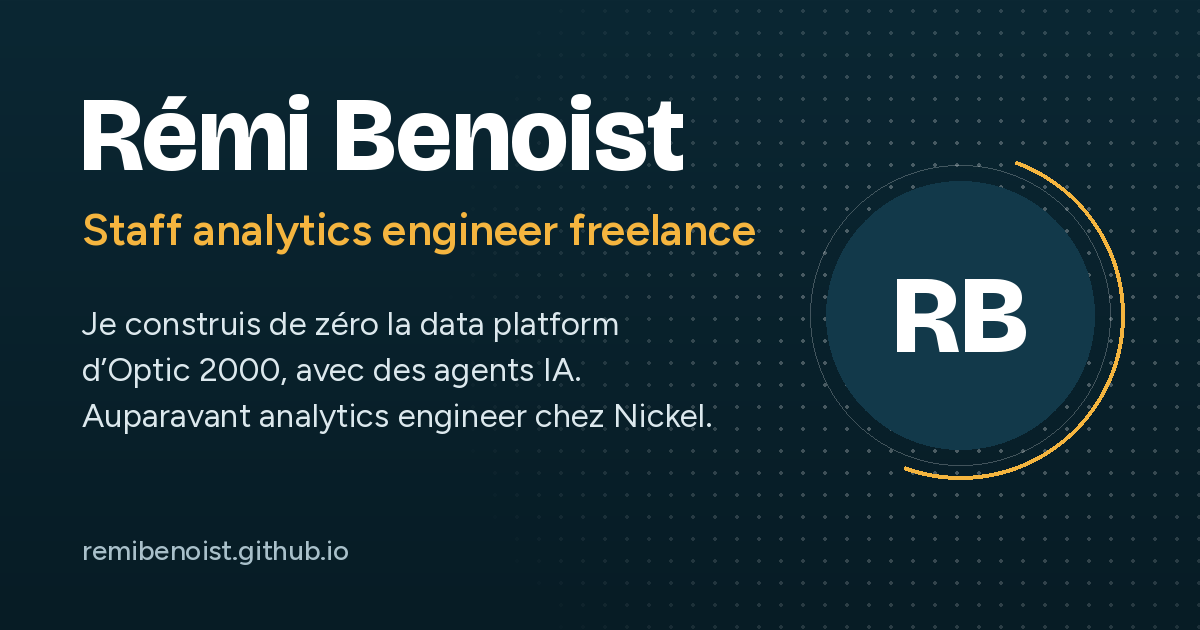
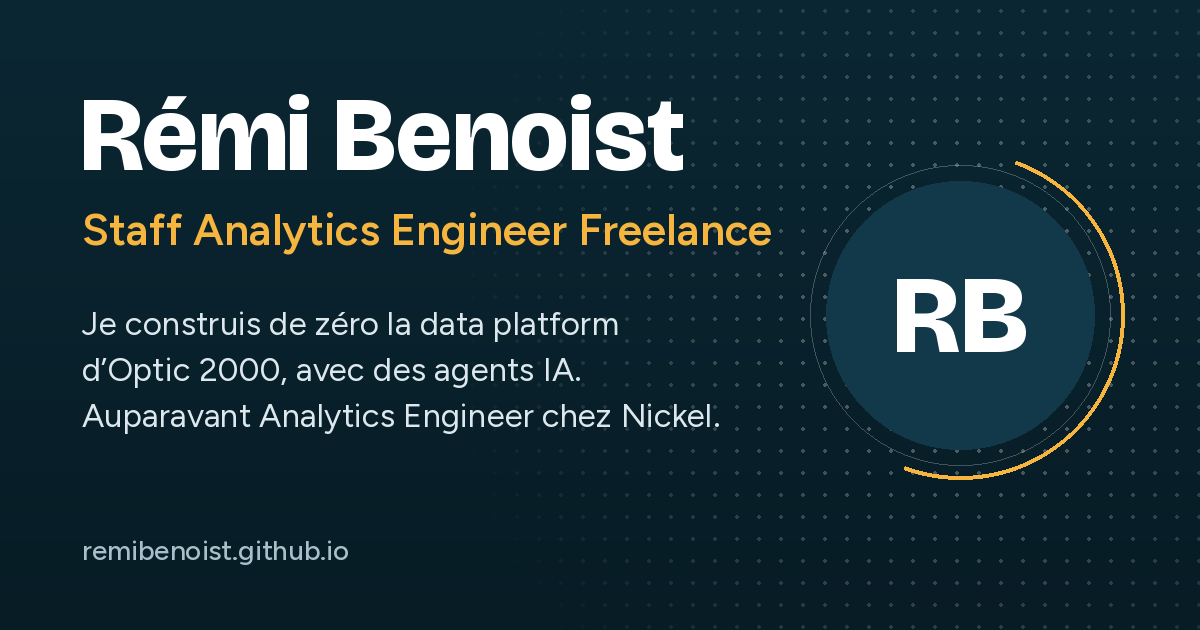
Add files via upload

Changed region(s): [[0.1542, 0.3317, 0.6475, 0.4222], [0.2158, 0.6333, 0.5858, 0.6937]]

diff --git a/index.html b/index.html
@@ -3,8 +3,8 @@
 <head>
 <meta charset="utf-8">
 <meta name="viewport" content="width=device-width, initial-scale=1">
-<title>Rémi Benoist | Staff analytics engineer freelance</title>
-<meta name="description" content="Rémi Benoist, staff analytics engineer freelance. Il construit de zéro la data platform d’Optic 2000 avec des agents IA. Auparavant analytics engineer chez Nickel.">
+<title>Rémi Benoist | Staff Analytics Engineer Freelance</title>
+<meta name="description" content="Rémi Benoist, Staff Analytics Engineer Freelance. Responsable de la transformation des données chez Optic 2000, il construit la data platform avec des agents IA. Ex-Nickel.">
 <meta name="author" content="Rémi Benoist">
 <link rel="canonical" href="https://remibenoist.github.io/">
 <link rel="icon" href="favicon.svg" type="image/svg+xml">
@@ -12,13 +12,13 @@
 <meta property="og:type" content="profile">
 <meta property="og:locale" content="fr_FR">
 <meta property="og:site_name" content="Rémi Benoist">
-<meta property="og:title" content="Rémi Benoist, staff analytics engineer freelance">
-<meta property="og:description" content="Je construis de zéro la data platform d’Optic 2000, avec des agents IA. Auparavant analytics engineer chez Nickel.">
+<meta property="og:title" content="Rémi Benoist, Staff Analytics Engineer Freelance">
+<meta property="og:description" content="Je construis de zéro la data platform d’Optic 2000, avec des agents IA. Auparavant Analytics Engineer chez Nickel.">
 <meta property="og:url" content="https://remibenoist.github.io/">
 <meta property="og:image" content="https://remibenoist.github.io/og-image.png">
 <meta property="og:image:width" content="1200">
 <meta property="og:image:height" content="630">
-<meta property="og:image:alt" content="Rémi Benoist, staff analytics engineer freelance">
+<meta property="og:image:alt" content="Rémi Benoist, Staff Analytics Engineer Freelance">
 <meta property="profile:first_name" content="Rémi">
 <meta property="profile:last_name" content="Benoist">
 <meta name="twitter:card" content="summary_large_image">
@@ -38,26 +38,67 @@
       "@type": "ProfilePage",
       "@id": "https://remibenoist.github.io/#profilepage",
       "url": "https://remibenoist.github.io/",
-      "name": "Rémi Benoist, staff analytics engineer freelance",
+      "name": "Rémi Benoist, Staff Analytics Engineer Freelance",
       "inLanguage": "fr-FR",
-      "isPartOf": { "@id": "https://remibenoist.github.io/#website" },
+      "isPartOf": {
+        "@id": "https://remibenoist.github.io/#website"
+      },
       "dateCreated": "2026-11-20",
       "dateModified": "2026-11-20",
-      "mainEntity": { "@id": "https://remibenoist.github.io/#person" }
+      "mainEntity": {
+        "@id": "https://remibenoist.github.io/#person"
+      }
     },
     {
       "@type": "Person",
       "@id": "https://remibenoist.github.io/#person",
       "name": "Rémi Benoist",
-      "alternateName": ["Remi Benoist", "Rémi BENOIST"],
+      "alternateName": [
+        "Remi Benoist",
+        "Rémi BENOIST"
+      ],
       "givenName": "Rémi",
       "familyName": "Benoist",
       "url": "https://remibenoist.github.io/",
       "image": "https://remibenoist.github.io/photo.jpg",
-      "jobTitle": "Staff analytics engineer freelance",
-      "worksFor": { "@type": "Organization", "name": "Optic 2000" },
-      "description": "Rémi Benoist est staff analytics engineer freelance. Il construit de zéro la data platform d’Optic 2000, avec des agents IA. Il était auparavant analytics engineer chez Nickel.",
-      "knowsAbout": ["Analytics engineering", "Data platform", "Modélisation de données", "Agents IA", "FinOps"],
+      "jobTitle": "Staff Analytics Engineer Freelance",
+      "description": "Rémi Benoist est Staff Analytics Engineer Freelance. En mission chez Optic 2000 depuis février 2026, dans l’équipe de Paul Marcombes, il est responsable de la transformation des données et construit la data platform avec des agents IA. Il était auparavant Analytics Engineer chez Nickel.",
+      "knowsAbout": [
+        "Analytics engineering",
+        "Data platform",
+        "Transformation des données",
+        "Agents IA",
+        "Self-service analytics",
+        "Qualité des données"
+      ],
+      "alumniOf": [
+        {
+          "@type": "CollegeOrUniversity",
+          "name": "ESTACA"
+        },
+        {
+          "@type": "Organization",
+          "name": "Nickel"
+        },
+        {
+          "@type": "Organization",
+          "name": "Arkance Optimum"
+        },
+        {
+          "@type": "Organization",
+          "name": "Manitou Group"
+        },
+        {
+          "@type": "Organization",
+          "name": "Bosch"
+        }
+      ],
+      "colleague": {
+        "@type": "Person",
+        "name": "Paul Marcombes",
+        "url": "https://unytics.io/fr/",
+        "sameAs": "https://www.linkedin.com/in/paul-marcombes/"
+      },
       "sameAs": [
         "https://www.linkedin.com/in/remi-benoist-data/",
         "https://github.com/remibenoist"
@@ -67,7 +108,10 @@
         "headline": "Comment réduire ses coûts Google BigQuery ?",
         "url": "https://medium.com/modern-data-network-mdn/comment-r%C3%A9duire-ses-co%C3%BBts-google-bigquery-99f34d4fd2f0",
         "datePublished": "2023-09-13",
-        "publisher": { "@type": "Organization", "name": "Modern Data Network" }
+        "publisher": {
+          "@type": "Organization",
+          "name": "Modern Data Network"
+        }
       }
     }
   ]
@@ -158,8 +202,6 @@
   }
   .btn-main { background: var(--amber); color: #1B1403; }
   .btn-main:hover { background: #FFC759; transform: translateY(-1px); }
-  .btn-ghost { border: 1px solid rgba(255,255,255,.28); color: var(--on-ink); }
-  .btn-ghost:hover { border-color: rgba(255,255,255,.7); }
   .nav .btn { padding: 0.55rem 1rem; }
   .nav ul a.btn-main, .nav ul a.btn-main:hover { color: #1B1403; }
 
@@ -175,6 +217,9 @@
   }
   .role { margin: 1rem 0 0; font-size: clamp(1.25rem, 2.6vw, 1.625rem); font-weight: 600; color: var(--amber); }
   .pitch { margin: 1.5rem 0 0; max-width: 32em; font-size: 1.25rem; line-height: 1.5; color: #DCE8ED; }
+  .hook { margin: 1.75rem 0 0; padding-left: 1rem; border-left: 3px solid var(--amber); }
+  .hook blockquote { margin: 0; font-family: "Bricolage Grotesque", "Figtree", sans-serif; font-weight: 700; font-size: 1.375rem; letter-spacing: -0.01em; line-height: 1.25; }
+  .hook figcaption { margin-top: 0.2rem; font-size: 0.95rem; color: var(--on-ink-muted); }
   .actions { display: flex; flex-wrap: wrap; gap: 0.75rem; margin-top: 2.25rem; }
 
   /* photo dans son objectif */
@@ -208,6 +253,9 @@
   .news h3 a::after { content: ""; position: absolute; inset: 0; border-radius: 14px; }
   .news li:hover h3 a { color: var(--link); }
   .news p { margin: 0; color: var(--muted); max-width: 46em; }
+  .news blockquote { margin: 0.9rem 0 0; padding-left: 1rem; border-left: 3px solid var(--amber); }
+  .news blockquote p { color: var(--text); font-weight: 600; }
+  .news blockquote p + p { margin-top: 0.3rem; }
 
   /* Recommandations */
   .recos { display: grid; grid-template-columns: 1fr 1fr; gap: 1.25rem; align-items: start; }
@@ -232,12 +280,14 @@
   .recos-src { margin: 1.25rem 0 0; color: var(--muted); font-size: 0.95rem; }
 
   /* Encadré */
-  .card { background: var(--surface); border: 1px solid var(--rule); border-radius: 14px; padding: 0.5rem 2rem; max-width: 760px; }
-  .facts { margin: 0; display: grid; grid-template-columns: 11rem 1fr; }
-  .facts dt, .facts dd { margin: 0; padding: 1rem 0; border-bottom: 1px solid var(--rule); }
-  .facts dt { color: var(--muted); padding-right: 1rem; }
-  .facts dd { font-weight: 500; }
-  .facts dt:last-of-type, .facts dd:last-of-type { border-bottom: 0; }
+  .about { display: grid; grid-template-columns: 1.15fr 1fr; gap: 3rem; align-items: start; }
+  .bio p { margin: 0 0 1.1rem; font-size: 1.125rem; line-height: 1.65; }
+  .bio p:last-child { margin-bottom: 0; }
+  .card { background: var(--surface); border: 1px solid var(--rule); border-radius: 14px; padding: 0.75rem 1.75rem; }
+  .facts { margin: 0; }
+  .facts dt { margin: 0; padding-top: 0.9rem; color: var(--muted); font-size: 0.95rem; }
+  .facts dd { margin: 0; padding: 0.1rem 0 0.9rem; font-weight: 500; border-bottom: 1px solid var(--rule); }
+  .facts dd:last-of-type { border-bottom: 0; }
 
   /* Pied de page */
   footer { background: var(--ink-deep); color: var(--on-ink-muted); padding: 2rem 0; font-size: 0.95rem; }
@@ -259,11 +309,9 @@
     .recos { grid-template-columns: 1fr; }
     .reco { padding: 1.5rem 1.5rem 1.25rem; }
     .news li { padding: 1.25rem 1.25rem; }
-    .card { padding: 0.25rem 1.25rem; }
-    .facts { grid-template-columns: 1fr; }
-    .facts dt { border-bottom: 0; padding-bottom: 0; font-size: 0.95rem; }
-    .facts dd { padding-top: 0.15rem; }
-    .facts dt:last-of-type { border-bottom: 0; }
+    .about { grid-template-columns: 1fr; gap: 1.75rem; }
+    .bio p { font-size: 1.0625rem; }
+    .card { padding: 0.5rem 1.25rem; }
   }
 </style>
 </head>
@@ -283,11 +331,14 @@
     <div class="hero">
       <div>
         <h1>Rémi Benoist</h1>
-        <p class="role">Staff analytics engineer freelance</p>
-        <p class="pitch">Je construis de zéro la data platform d’Optic 2000, avec des agents IA. Auparavant analytics engineer chez Nickel.</p>
+        <p class="role">Staff Analytics Engineer Freelance</p>
+        <p class="pitch">Je construis de zéro la data platform d’Optic 2000, avec des agents IA. Auparavant Analytics Engineer chez Nickel.</p>
+        <figure class="hook">
+          <blockquote lang="en">“You’re a data-pain-killer!”</blockquote>
+          <figcaption>Paul Marcombes, alors Head of Data de Nickel</figcaption>
+        </figure>
         <div class="actions">
           <a class="btn btn-main" href="https://www.linkedin.com/in/remi-benoist-data/" rel="me">Me contacter sur LinkedIn</a>
-          <a class="btn btn-ghost" href="https://github.com/remibenoist" rel="me">GitHub</a>
         </div>
       </div>
       <div class="lens">
@@ -311,7 +362,10 @@
         <li>
           <div class="meta"><time datetime="2023-10">Octobre 2023</time><span class="tag">Mention</span></div>
           <h3><a href="https://www.linkedin.com/posts/paul-marcombes_dbt-finops-share-7115474666076430336-oeWp/">Paul Marcombes raconte le «&nbsp;dbt cost killing championship&nbsp;»</a></h3>
-          <p>Alors Head of Data de Nickel, il explique comment j’ai transformé la maîtrise des coûts dbt en championnat entre 30 contributeurs.</p>
+          <p>Alors Head of Data de Nickel, il revient sur le championnat que j’ai lancé entre 30 contributeurs dbt.</p>
+          <blockquote lang="en">
+            <p>“Thanks to his natural enthusiasm […] it has been a tremendous success.”</p>
+          </blockquote>
         </li>
         <li>
           <div class="meta"><time datetime="2023-09">Septembre 2023</time><span class="tag">Article</span></div>
@@ -364,19 +418,25 @@
   <section id="qui-est-remi-benoist" aria-labelledby="h-qui">
     <div class="wrap">
       <h2 id="h-qui">Qui est Rémi Benoist&nbsp;?</h2>
-      <div class="card">
-        <dl class="facts">
-          <dt>Métier</dt>
-          <dd>Staff analytics engineer freelance</dd>
-          <dt>Mission actuelle</dt>
-          <dd>Optic 2000, depuis février 2026&nbsp;: construction de la data platform de zéro, responsable de la transformation des données</dd>
-          <dt>Auparavant</dt>
-          <dd>Analytics engineer chez Nickel</dd>
-          <dt>Approche</dt>
-          <dd>Des agents IA pour démocratiser l’accès aux données et rendre les métiers autonomes</dd>
-          <dt>Compétences</dt>
-          <dd>Modélisation, fiabilité et valorisation des données, animation de communauté data</dd>
-        </dl>
+      <div class="about">
+        <div class="bio">
+          <p>Rémi Benoist est Staff Analytics Engineer Freelance. Depuis février 2026, il est en mission chez Optic 2000, dans l’équipe de <a href="https://unytics.io/fr/">Paul Marcombes</a>, Head of Data Platform. Responsable de la transformation des données, il construit la data platform avec des agents IA et accompagne les métiers pour les rendre autonomes sur leurs données, en self-service.</p>
+          <p>De 2023 à 2026, il était Analytics Engineer chez Nickel. Il y a développé des agents IA analytics pour démocratiser l’accès aux données, fait passer de 6&nbsp;% à 92&nbsp;% la part des tables du data warehouse aux standards de qualité en quatre mois, et créé un championnat FinOps qui a réduit de 30&nbsp;% les coûts dbt en un trimestre.</p>
+        </div>
+        <div class="card">
+          <dl class="facts">
+            <dt>Métier</dt>
+            <dd>Staff Analytics Engineer Freelance</dd>
+            <dt>Mission actuelle</dt>
+            <dd>Optic 2000, depuis février 2026&nbsp;: responsable de la transformation des données</dd>
+            <dt>Auparavant</dt>
+            <dd>Analytics Engineer chez Nickel</dd>
+            <dt>Approche</dt>
+            <dd>Des agents IA et du self-service pour rendre les métiers autonomes</dd>
+            <dt>Compétences</dt>
+            <dd>Modélisation, fiabilité et valorisation des données</dd>
+          </dl>
+        </div>
       </div>
     </div>
   </section>
@@ -385,8 +445,8 @@
 
 <footer>
   <div class="wrap">
-    <span>Rémi Benoist, staff analytics engineer freelance</span>
-    <span><a href="https://www.linkedin.com/in/remi-benoist-data/" rel="me">LinkedIn</a> &nbsp; <a href="https://github.com/remibenoist" rel="me">GitHub</a> &nbsp; Mis à jour le <time datetime="2026-11-20">20 novembre 2026</time></span>
+    <span>Rémi Benoist, Staff Analytics Engineer Freelance</span>
+    <span><a href="https://www.linkedin.com/in/remi-benoist-data/" rel="me">LinkedIn</a> &nbsp; Mis à jour le <time datetime="2026-11-20">20 novembre 2026</time></span>
   </div>
 </footer>
 
